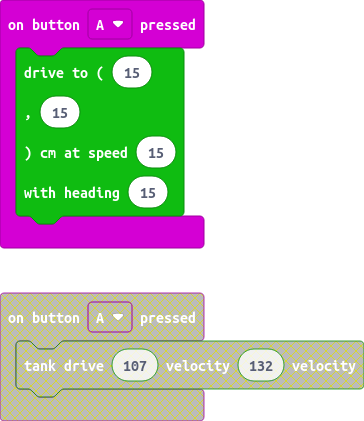
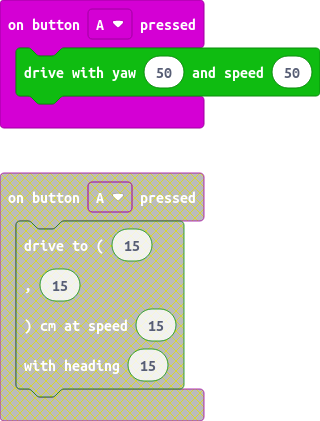
Drive with yaw test

diff --git a/custom.ts b/custom.ts
@@ -12,12 +12,17 @@ namespace custom {
     export class DriveCommandsExt {
         public static readonly driveToPositionSI: number = 0x38;
         public static readonly driveTankNormalized: number = 0x33;
+        public static readonly driveWithYawNormalized: number = 0x37;
     }
 
     export class Utilities {
         public static floatToByteArray(value: number): Array<number> {
             let buffer: Buffer = Buffer.pack('>f',[value]);
             return buffer.toArray(NumberFormat.Float32BE);
+        }
+        
+        public static int8ToByteArray(value: number): Array<number> {
+            return sphero.Utilities.numberToByteArray(value, 1);
         }
     }
 
@@ -49,6 +54,32 @@ namespace custom {
             sphero.ApiTargetsAndSources.serviceSource,
             sphero.DriveCommands.driveDeviceId,
             sphero.DriveCommands.driveWithHeadingCommandId,
+            messageData
+        );
+
+        serial.writeBuffer(pins.createBufferFromArray(apiMessage.messageRawBytes));
+    }
+
+    //% block="drive with yaw %yaw| and speed %speed|"
+    //% yaw.min=-32767 yaw.max=32767
+    //% speed.min=-127 speed.max=127
+    export function driveWithYawNormalized (yaw:number,speed:number): void {
+        let flags: number = 0x00;
+
+        let messageData: Array<number> = sphero.Utilities.int16ToByteArray(yaw);
+        let speedArray: Array<number> = Utilities.int8ToByteArray(speed);
+
+        for (let i: number = 0; i < speedArray.length; i++) {
+            messageData.push(speedArray[i]);
+        }
+
+        messageData.push(flags);
+
+        let apiMessage = sphero.buildApiCommandMessageWithDefaultFlags(
+            sphero.ApiTargetsAndSources.robotStTarget,
+            sphero.ApiTargetsAndSources.serviceSource,
+            sphero.DriveCommands.driveDeviceId,
+            DriveCommandsExt.driveWithYawNormalized,
             messageData
         );
 

diff --git a/main.ts b/main.ts
@@ -1,8 +1,3 @@
 input.onButtonPressed(Button.A, function () {
-    custom.driveToPosition(
-    15,
-    15,
-    15,
-    15
-    )
+    custom.driveWithYawNormalized(50, 50)
 })
